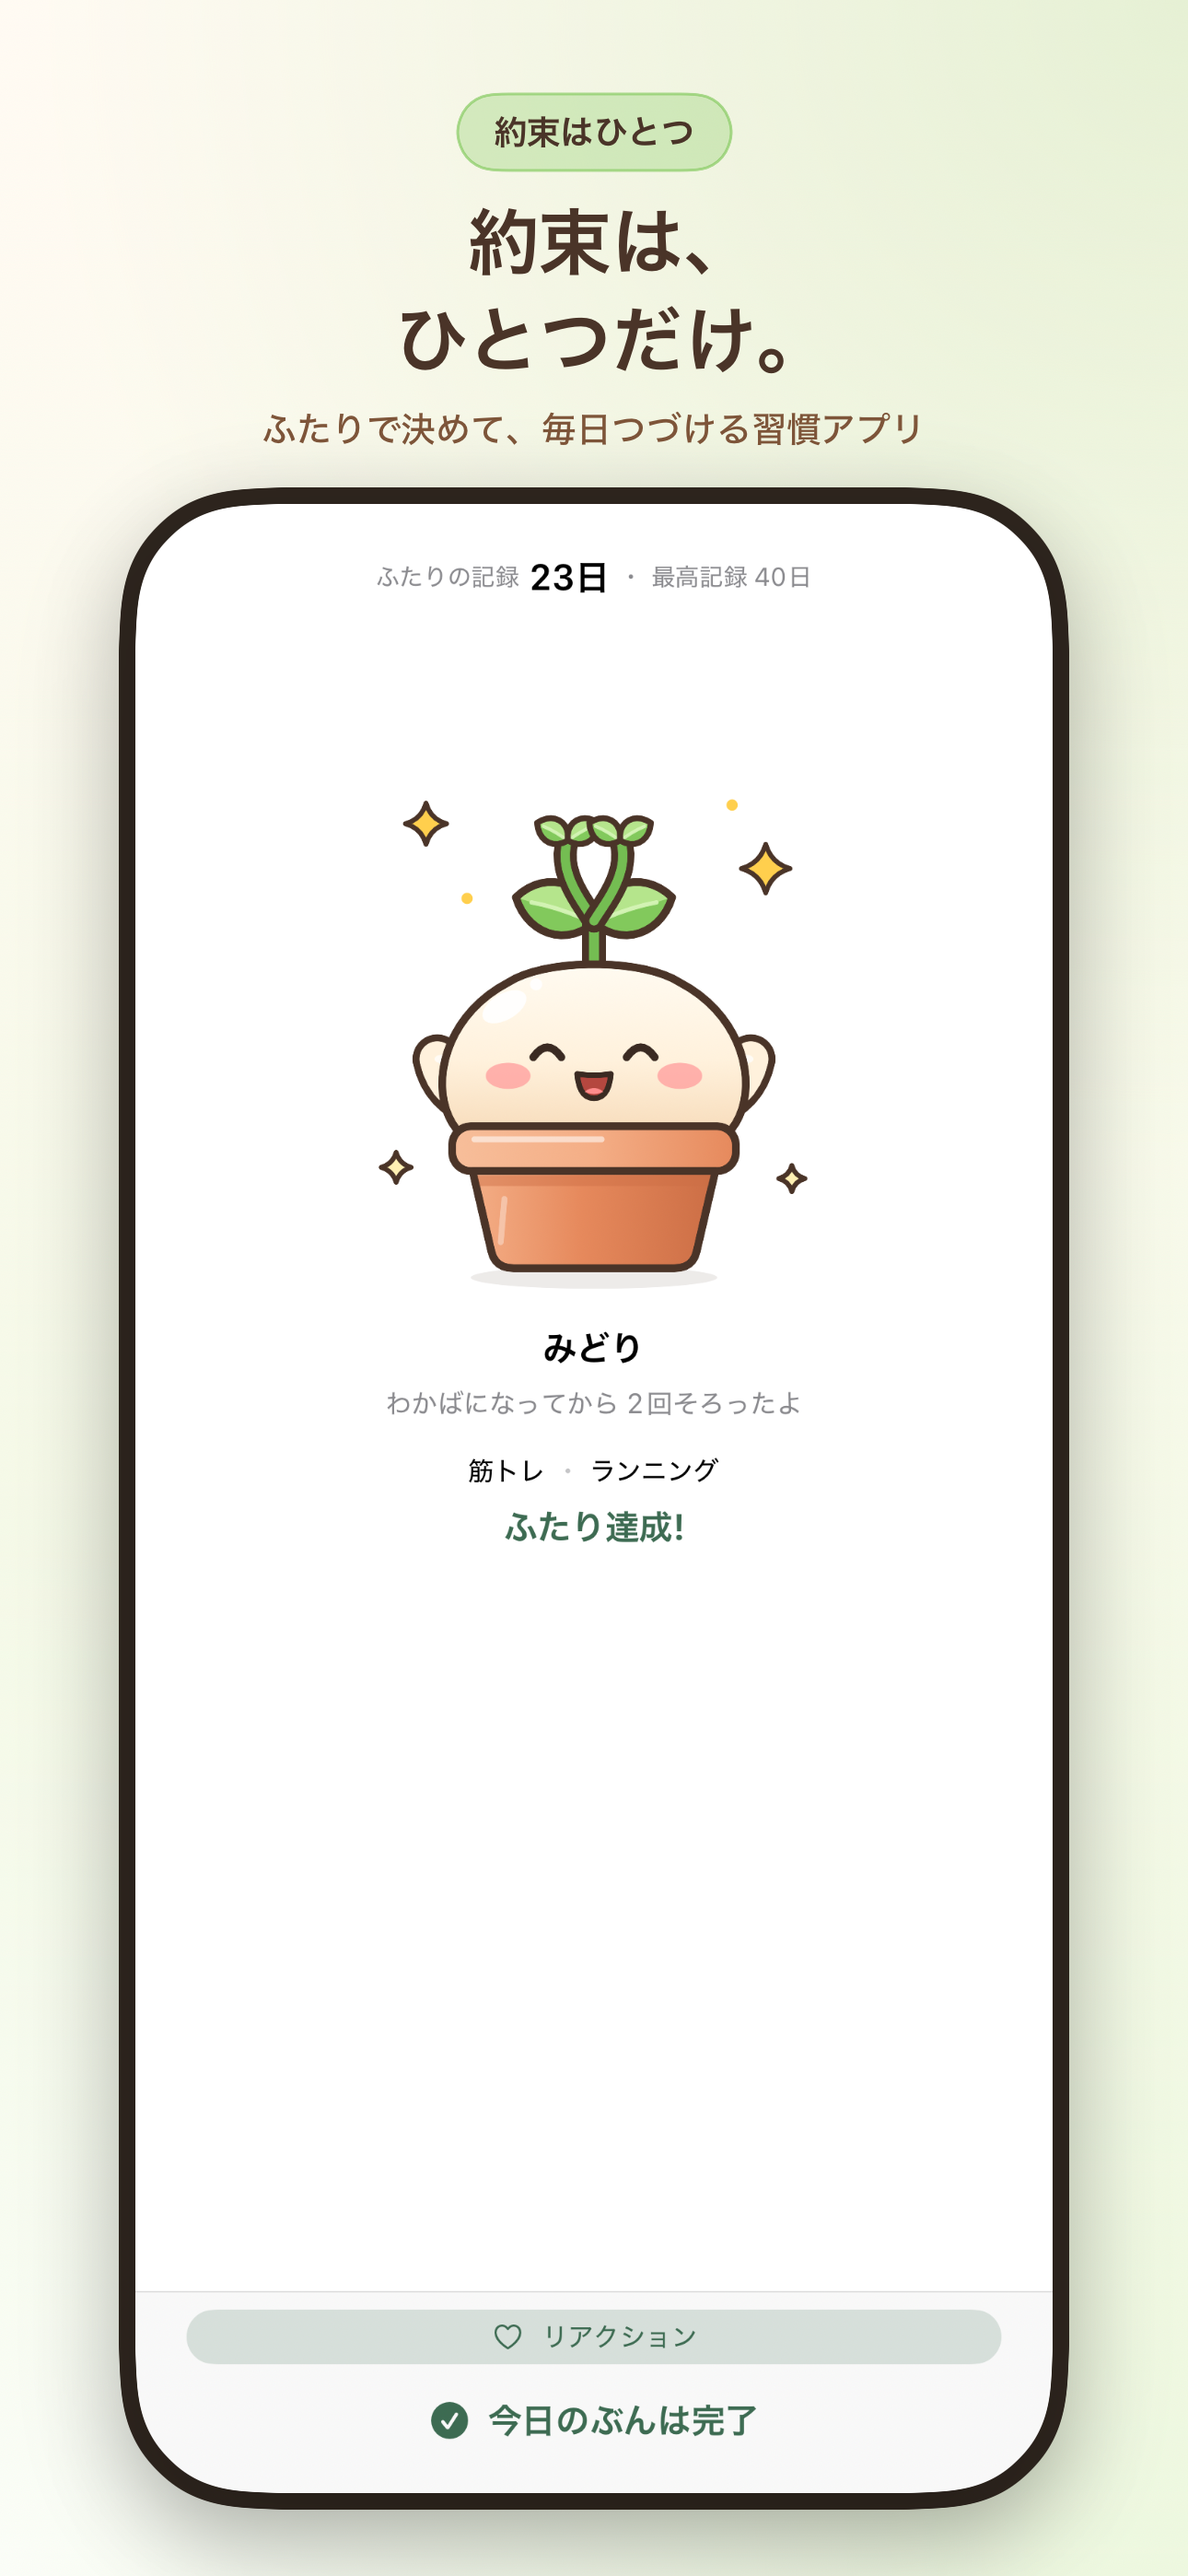
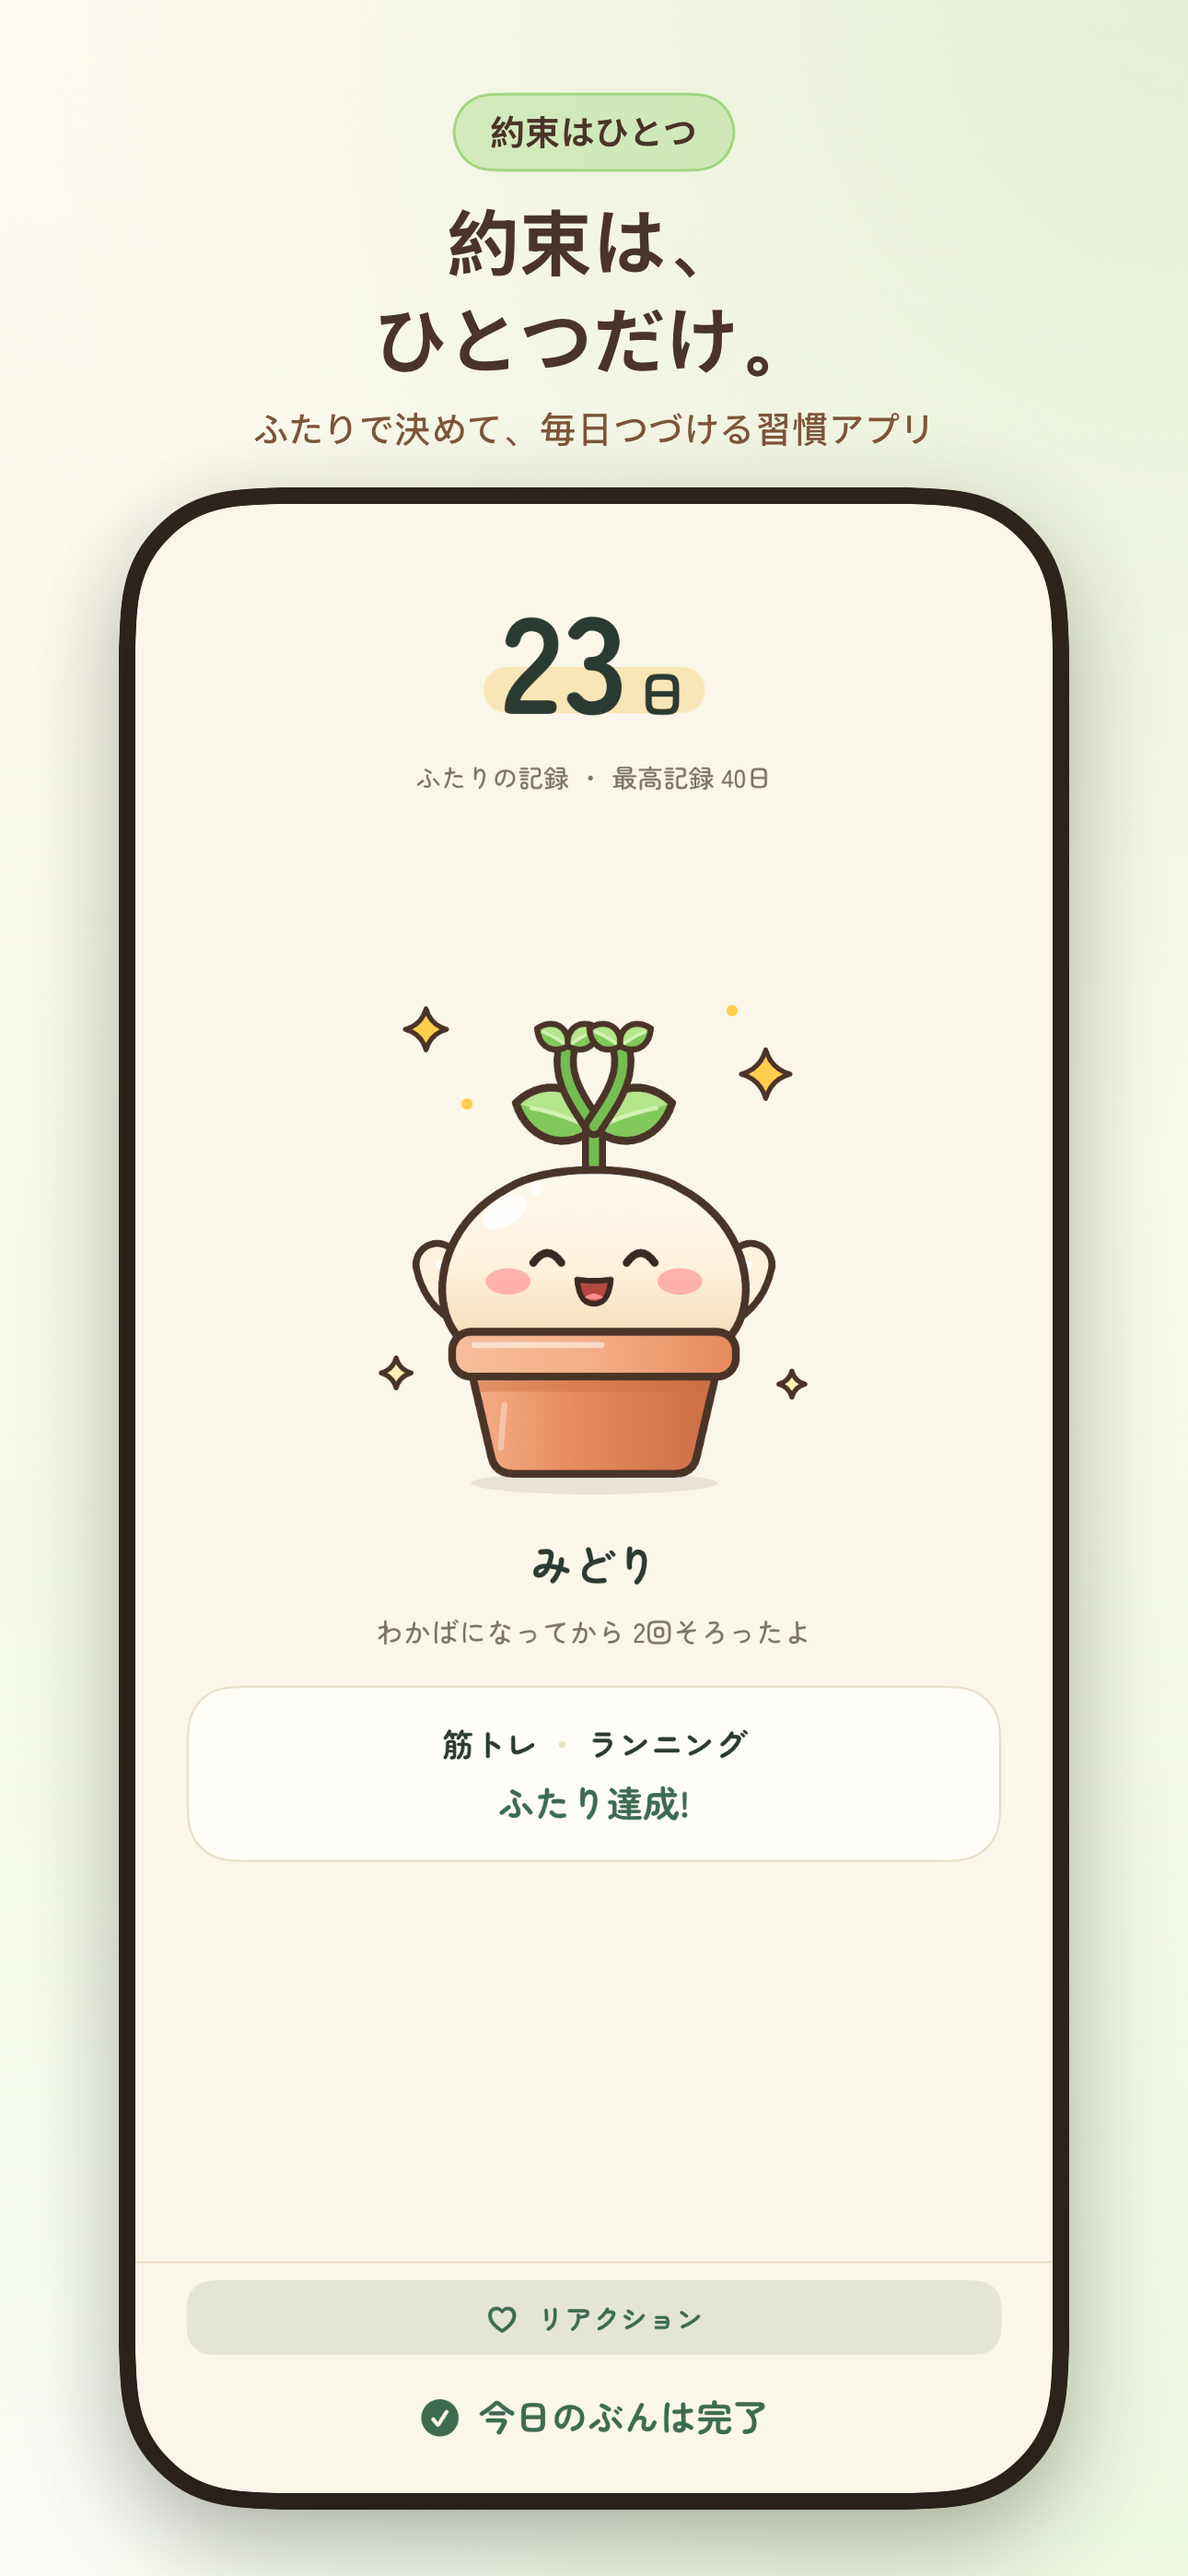
mkt(lien): ストア用スクショを UI 改修後の CI 実描画に差し替え(run 43007349235)

diff --git a/products/lien/marketing/screenshots/README.md b/products/lien/marketing/screenshots/README.md
@@ -45,8 +45,8 @@ G4(#42)の承認材料。**実際の画面**(アプリの本物の SwiftUI View)
 | 項目 | 値 |
 |---|---|
 | 生成 | `manifest.json` の `generatedAt`(Asia/Tokyo) |
-| CI 実行 | [lien-ios #39389661638](https://github.com/Ryoki63/Challenge/actions/runs/39389661638)(2026-10-20。main 取り込み後) |
-| コミット | `manifest.json` の `provenance.commit`(`c308e5c`。この画像を描いたテストの版) |
+| CI 実行 | [lien-ios #43007349235](https://github.com/Ryoki63/Challenge/actions/runs/43007349235)(2026-11-11。UI 改修後の main。2回目の実行) |
+| コミット | `manifest.json` の `provenance.commit`(`5126e81`。この画像を描いたテストの版) |
 | キャプションの SHA-256 | `manifest.json` の `captionsSHA256`(いまの `captions.json` と一致すること) |
 | artifact | `store-screenshots`(完成画像 + raw/ + manifest + 一覧) |
 
